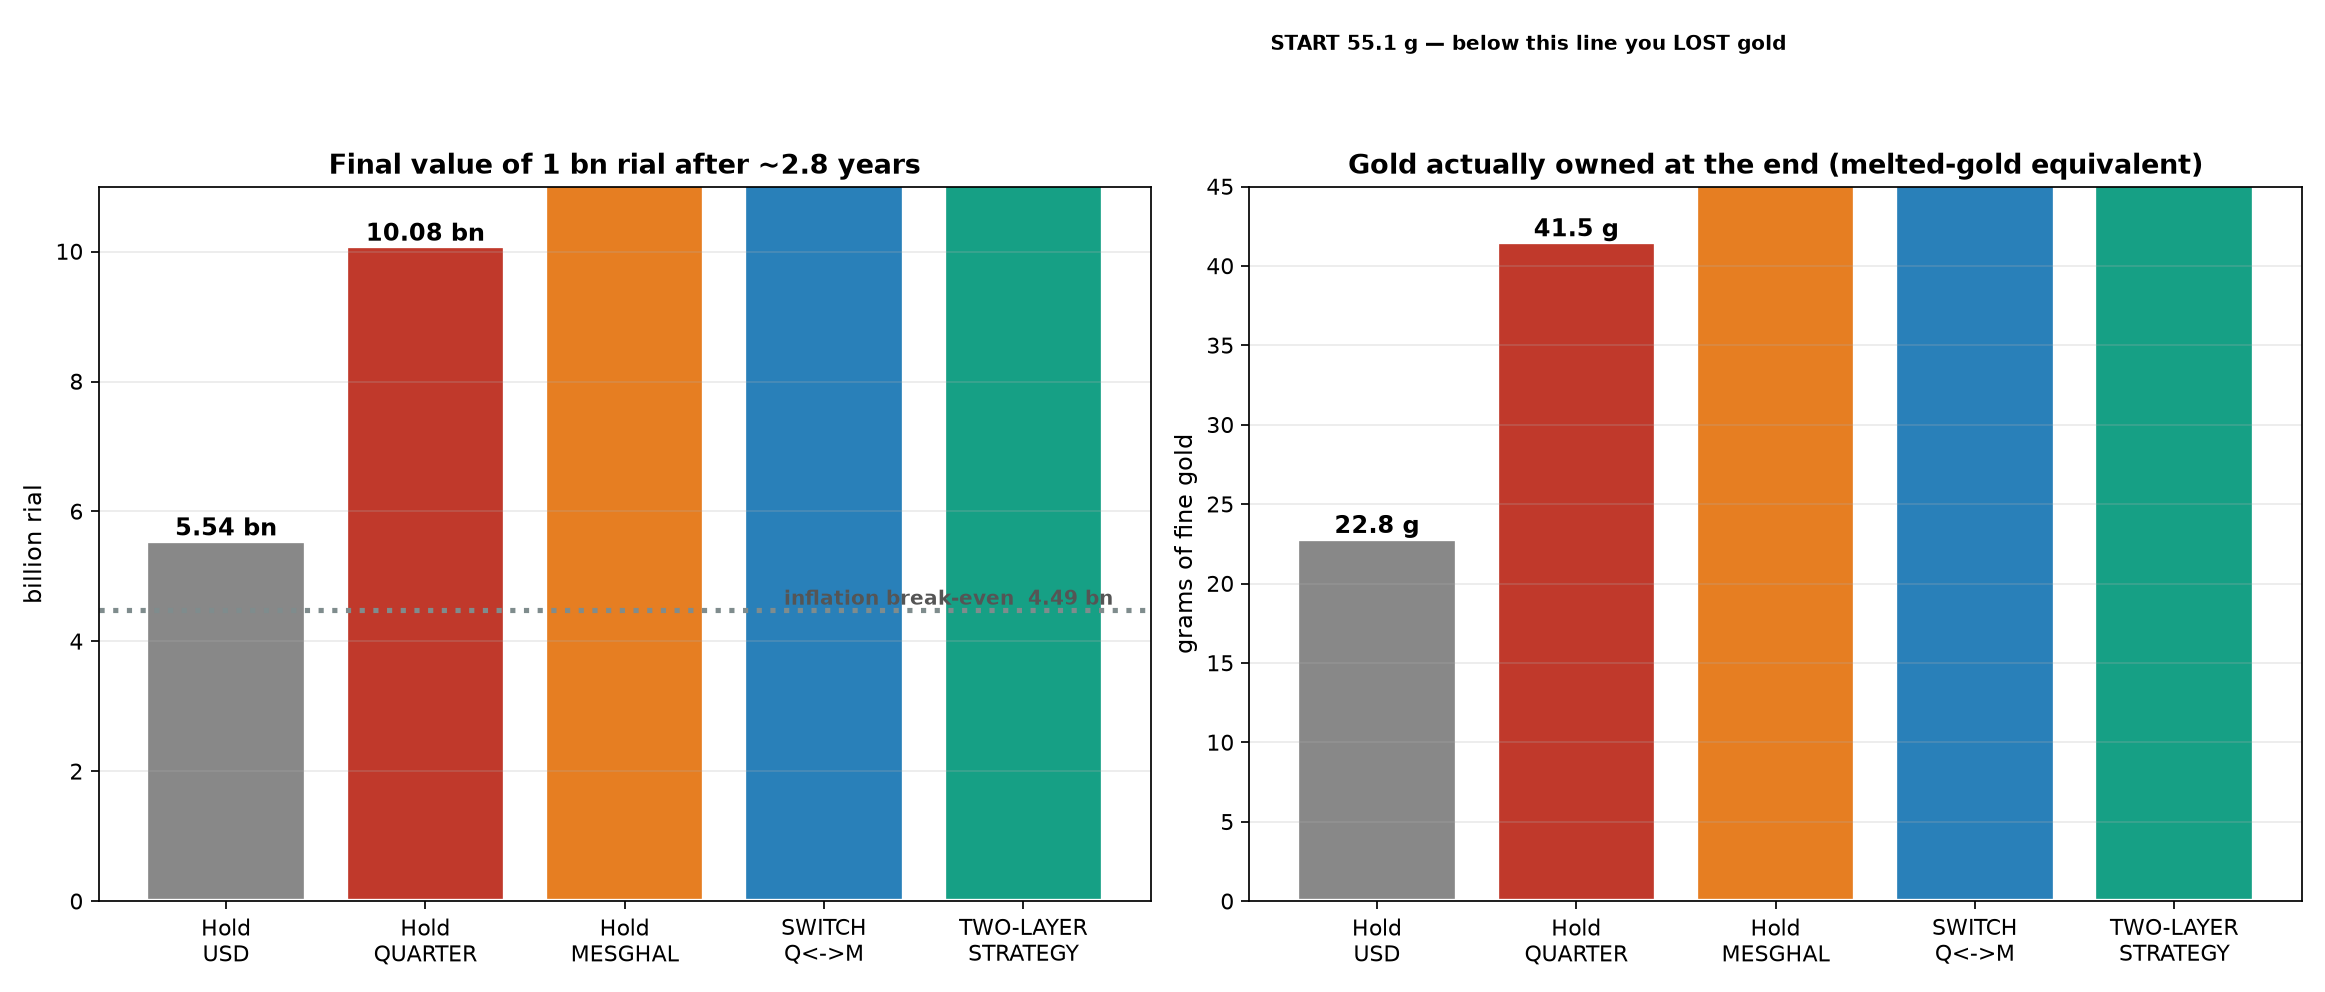
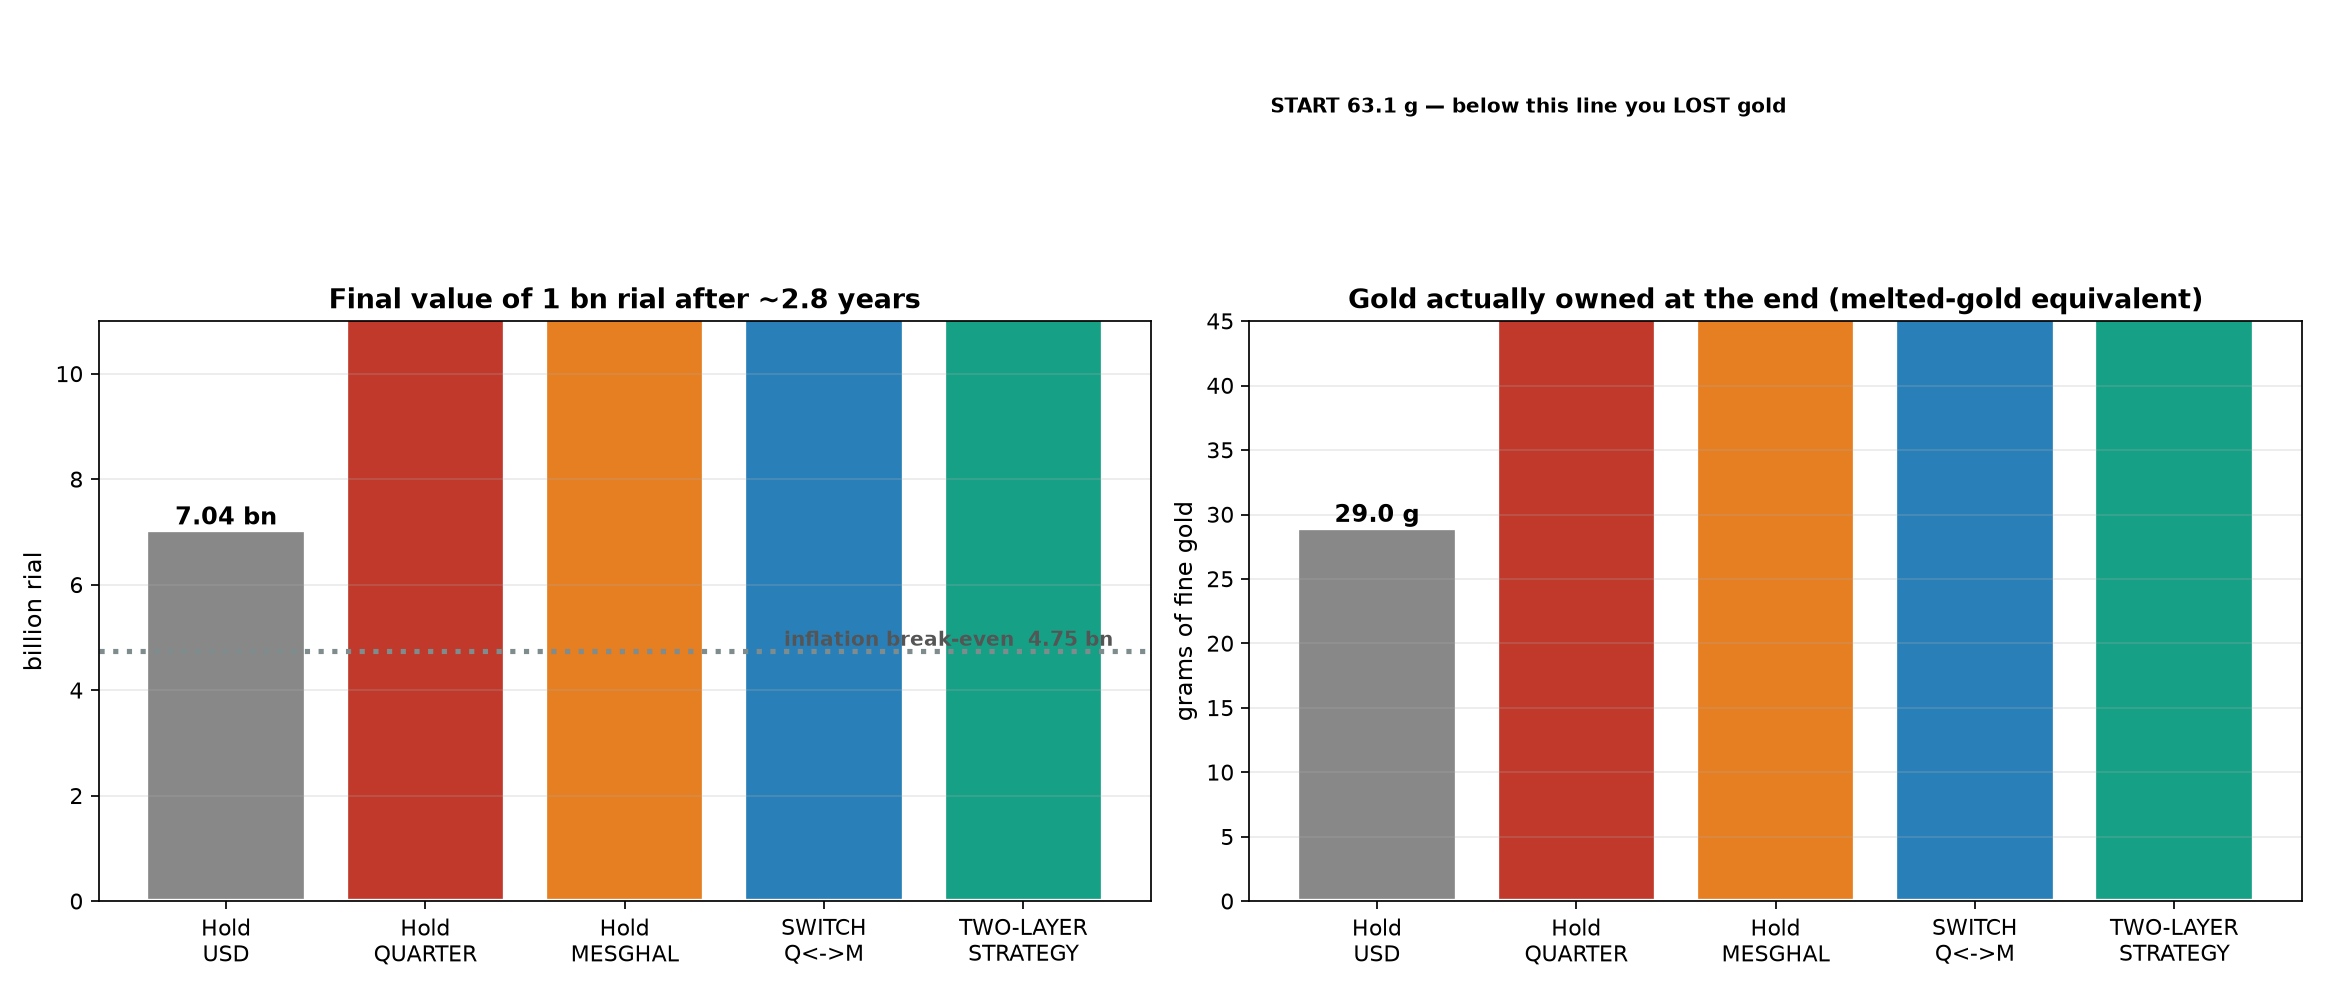
Update presentation to 1149-session window (2021-12-21 start)
- Switch Q<->M now 20.39bn / 84.0g / 4.29x CPI vs hold-quarter 14.19bn
- Layer-2-only 1.75x hold-quarter still BEATS two-layer 1.66x
- Split-sample gap widened: H1 0.75x, H2 1.67x - regime dependence is
  the biggest caveat and did NOT go away with more data
- Hold USD: +604% in rials, still lost 54% of gold

diff --git a/PRESENTATION.md b/PRESENTATION.md
@@ -1,6 +1,6 @@
 # Iran Gold/FX Bubble Arbitrage — Strategy Presentation
 
-**Backtest window:** 2022-10-13 → 2026-07-27 · 945 trading sessions (~3.8 years)
+**Backtest window:** 2022-02-22 → 2026-07-27 · 1,103 trading sessions (~4.4 years)
 **Starting capital:** 1,000,000,000 rial (1 bn), held as cash on day 1
 **Transaction cost:** 2.0% per leg (conservative — traditional dealer spread)
 
@@ -67,41 +67,42 @@ MINIMUM HOLD: 10 sessions between Layer 1 flips, 5 between Layer 2 flips
 
 | Plan | Final value | Return | vs inflation | Gold owned | Trades |
 |---|---|---|---|---|---|
-| Hold USD | 5.54 bn | +454% | 1.23× | 22.8 g | 0 |
-| Hold ربع سکه | 10.08 bn | +908% | 2.25× | 41.5 g | 0 |
-| Hold مثقال | 13.12 bn | +1212% | 2.92× | 54.0 g | 0 |
-| **Switch ربع↔مثقال** | **14.86 bn** | **+1386%** | **3.31×** | **61.2 g** | **3** |
-| Two-layer (adds USD) | 14.15 bn | +1315% | 3.15× | 58.3 g | 6 |
+| Hold USD | 7.04 bn | +604% | 1.48× | 29.0 g | 0 |
+| Hold ربع سکه | 14.19 bn | +1319% | 2.99× | 58.4 g | 0 |
+| Hold مثقال | 15.01 bn | +1401% | 3.16× | 61.8 g | 0 |
+| **Switch ربع↔مثقال** | **20.39 bn** | **+1939%** | **4.29×** | **84.0 g** | **4** |
+| Two-layer (adds USD) | 19.42 bn | +1842% | 4.09× | 80.0 g | 7 |
 
-Iran CPI over the same window rose ~349% (4.49×) — the dotted line on the chart.
+Iran CPI over the same window rose ~375% (4.75×) — the dotted line on the chart.
 
 ### The headline
 
 ![summary](charts/summary.png)
 
-**Holding USD returned +454% in rials and still lost 59% of your gold** —
-55.1 g at the start, 22.8 g at the end. This is the single most important
+**Holding USD returned +604% in rials and still lost 54% of your gold** —
+63.1 g at the start, 29.0 g at the end. This is the single most important
 slide: in Iran a number that looks like a large profit can be a large real
 loss.
 
 ![grams](charts/grams.png)
 
 Measured in gold, only the two switching plans finished meaningfully above
-where they started. **Switching ربع↔مثقال turned 55.1 g into 61.2 g — 11%
+where they started. **Switching ربع↔مثقال turned 63.1 g into 84.0 g — 33%
 more metal**, on top of riding the gold price.
 
 ---
 
 ## 5. How often does it trade?
 
-**The recommended strategy (Layer 2 only) traded 3 times in 3.8 years —
-about once every 15 months.**
+**The recommended strategy (Layer 2 only) traded 4 times in 4.4 years —
+about once every 13 months.**
 
 | # | Date | Move | Trigger |
 |---|---|---|---|
-| 1 | 2025-02-11 | مثقال → ربع | RP fell to 29.8% (coin cheap) |
-| 2 | 2025-03-17 | ربع → مثقال | RP spiked to 76.0% (bubble fat) |
-| 3 | 2025-09-13 | مثقال → ربع | RP back to 28.9% |
+| 1 | 2022-06-01 | ربع → مثقال | RP at 60.6% (bubble fat) |
+| 2 | 2025-02-11 | مثقال → ربع | RP fell to 29.8% (coin cheap) |
+| 3 | 2025-03-17 | ربع → مثقال | RP spiked to 76.0% |
+| 4 | 2025-09-13 | مثقال → ربع | RP back to 28.9% |
 
 This is a **patient** strategy, not day trading. At 2% per leg we tested every
 threshold pair: pushing the trade count higher actively destroys value.
@@ -117,9 +118,9 @@ On the shorter window the two-layer strategy looked best. With more history:
 
 | | Layer 2 only | Two-layer |
 |---|---|---|
-| Full window | **1.47×** hold-ربع | 1.40× |
-| First half (2022-10→2024-08) | 0.92× | **0.80×** |
-| Second half (2024-08→2026-07) | 1.60× | 1.74× |
+| Full window | **1.75×** hold-ربع | 1.66× |
+| First half (2022-02→2024-04) | 0.75× | **0.66×** |
+| Second half (2024-04→2026-07) | 1.67× | 1.82× |
 
 **Layer 1 has now fired twice, and it is 1 win / 1 loss:**
 
@@ -157,11 +158,12 @@ beat holding the coin**, on a flat plateau rather than a lone spike.
 
 ## 7. What could go wrong — say this out loud
 
-1. **Very few trades.** 3 trades for Layer 2, 6 for two-layer. The edge rests
+1. **Very few trades.** 4 trades for Layer 2, 7 for two-layer. The edge rests
    on a handful of decisions.
 2. **Layer 1 is 1-for-2.** Do not present it as validated.
-3. **The strategy underperformed holding the coin in 2022–2024.** It won in
-   2024–2026. Regime-dependent.
+3. **The strategy underperformed holding the coin in 2022–2024 (0.75×).**
+   It won decisively in 2024–2026 (1.67×). Regime-dependent — this is the
+   single biggest caveat and it has NOT gone away with more data.
 4. **Screen prices ≠ your fill.** tgju's ربع index blends mint years
    ۱۳۸۶/۱۴۰۳/۱۴۰۴, which trade up to 1m toman apart.
 5. **Costs dominate.** At 2%/leg the perfect-foresight ceiling is 1.64×; at
@@ -174,8 +176,10 @@ beat holding the coin**, on a flat plateau rather than a lone spike.
 ## 8. Sources
 
 - Prices: tgju.org daily **close** for `rob` (ربع سکه), `mesghal` (مثقال),
-  `price_dollar_rl` (USD/IRR). 991 sessions where all three exist;
-  945 evaluated after the 45-session volatility warm-up.
+  `price_dollar_rl` (USD/IRR). 1,149 sessions where all three exist;
+  1,103 evaluated after the 45-session volatility warm-up.
+  Excluded 5 corrupted USD rows (2021-12-02/09/16/30, 2022-01-13) — all
+  Thursdays with identical OHLC and a fake ~10% dip vs both neighbours.
 - Inflation: Statistical Center of Iran CPI. Verified anchors — Dec-2023 =
   217.0, Jan-2024 = 222.7, Jan-2026 = 469.4 (p2p 60.0%), Feb-2026 = 513.6
   (p2p 68.1%), Jul-2026 = 676.9. Months between anchors are geometrically
